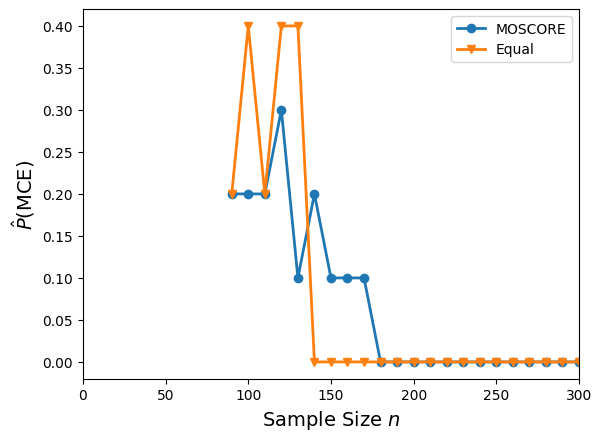
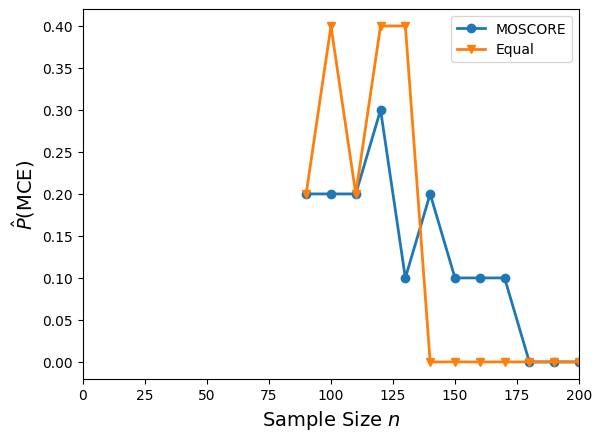
run larger experiments
run larger experiments

diff --git a/base.py b/base.py
@@ -22,7 +22,6 @@ import matplotlib.pyplot as plt
 import pickle
 import time
 
-#import pymoso.chnutils as chnutils
 from mrg32k3a.mrg32k3a import MRG32k3a
 
 from allocate import smart_allocate, calc_phantom_rate, calc_moscore_rate, calc_imoscore_rate
@@ -31,8 +30,8 @@ from utils import is_pareto_efficient, get_nondom   # _mp_objmethod,
 
 class MO_Alloc_Problem(object):
     """Class for multi-objective allocation problems.
-    This refers to the sample means/covariances that dictate what the allocation
-    should be at a given time.
+    Refers to the sample means and sample covariances at a given time,
+    which characterize the problem of allocating simulation effort.
 
     Attributes
     ----------
@@ -57,17 +56,14 @@ class MO_Alloc_Problem(object):
     Parameters
     ----------
     obj_vals : dict
-        Dictionary of tuples of objective values keyed by system number.
-        Tuples of objective values are assumed to be of equal length.
+        Dictionary of numpy arrays of objective values keyed by system number.
+        Arrays of objective values are assumed to be of equal length.
 
     obj_vars : dict
         Dictionary of covariance (numpy 2d arrays) keyed by system number.
         Numbers of rows and columns are equal to the number of objectives.
     """
     def __init__(self, obj_vals, obj_vars):
-        # TODO: Check for positive semidefinite?
-        # Replacing the following line with call to is_pareto_efficient().
-        # pareto_indices = list(moso_utils.get_nondom(obj_vals))
         self.n_systems = len(obj_vals)
         self.obj = obj_vals
         self.var = obj_vars
@@ -495,15 +491,15 @@ def record_metrics(metrics, problem, alpha_hat):
         occured at each step in the solver
 
         ``"percent_false_exclusion"``
-        list of float, the portion of true pareto systems
+        list of float, the porportion of true pareto systems
         which are falsely excluded at each step in the solver
 
         ``"percent_false_inclusion"``
-        list of float, the portion of true non-pareto systems
+        list of float, the proportion of true non-pareto systems
         which are falsely included at each step in the solver
 
         ``"percent_misclassification"``
-        list of float, the portion of systems which are
+        list of float, the proportion of systems which are
         misclassified at each step in the solver
 
     problem : base.MORS_Problem object
@@ -513,42 +509,7 @@ def record_metrics(metrics, problem, alpha_hat):
 
     Returns
     -------
-    metrics : dict
-
-        ``"alpha_hats"``
-        list of lists of float, the simulation allocation selected at each step in the solver
-
-        ``"alpha_bars"``
-        list of lists of float, the portion of the simulation budget that has been allocated
-        to each system at each step in the solver
-
-        ``"paretos"``
-        list of lists of int, the estimated pareto frontier at each step in the solver
-
-        ``"MCI_bool"``
-        list of Bool, indicating whether an misclassification by inclusion
-        occured at each step in the solver
-
-        ``"MCE_bool"``
-        list of Bool, indicating whether an misclassification by exclusion
-        occured at each step in the solver
-
-        ``"MC_bool"``
-        list of Bool, indicating whether an misclassification
-        occured at each step in the solver
-
-        ``"percent_false_exclusion"``
-        list of float, the portion of true pareto systems
-        which are falsely excluded at each step in the solver
-
-        ``"percent_false_inclusion"``
-        list of float, the portion of true non-pareto systems
-        which are falsely included at each step in the solver
-
-        ``"percent_misclassification"``
-        list of float, the portion of systems which are
-        misclassified at each step in the solver
-
+    None
     """
     # Record recommended and empirical allocation proportions.
     metrics['alpha_hats'].append(alpha_hat)
@@ -575,8 +536,6 @@ def record_metrics(metrics, problem, alpha_hat):
         metrics['percent_false_exclusion'].append((problem.n_pareto_systems - n_correct_select) / problem.n_pareto_systems)
         metrics['percent_false_inclusion'].append(n_false_select / (problem.n_systems - problem.n_pareto_systems))
         metrics['percent_misclassification'].append(((problem.n_pareto_systems - n_correct_select) + n_false_select) / problem.n_systems)
-
-    return metrics
 
 
 class MORS_Tester(object):

diff --git a/utils.py b/utils.py
@@ -234,7 +234,7 @@ def does_dominate(g1, g2, delta1, delta2):
             is_dom = False
     return is_dom
 
-def find_phantoms(paretos, n_obj):
+def find_phantoms(paretos, n_objectives):
     """Find the phantom pareto set.
 
     Parameters
@@ -242,7 +242,7 @@ def find_phantoms(paretos, n_obj):
     paretos : numpy matrix
         Matrix representing the pareto set, with a row for each pareto
         system and a column for each objective.
-    n_obj : int
+    n_objectives : int
         Number of objectives.
 
     Returns
@@ -252,8 +252,8 @@ def find_phantoms(paretos, n_obj):
         paretos. Same number of columns but the number of rows vary.
     """
     max_y = np.inf
-    phantoms = np.zeros([1, n_obj])
-    v = range(n_obj)
+    phantoms = np.zeros([1, n_objectives])
+    v = range(n_objectives)
 
     for b in v:
         # Get all subsets of size b of our objective dimensions.
@@ -267,7 +267,7 @@ def find_phantoms(paretos, n_obj):
 
             # Do the sweep.
             phants = sweep(temp_paretos)
-            phan = np.ones([len(phants), n_obj]) * max_y
+            phan = np.ones([len(phants), n_objectives]) * max_y
             phan[:, dims] = phants
             phantoms = np.append(phantoms, phan, axis=0)
     phantoms = phantoms[1:, :]
@@ -282,7 +282,7 @@ def sweep(paretos):
     paretos : numpy matrix
         Matrix representing the pareto set, with a row for each pareto
         system and a column for each objective.
-    n_obj : int
+    n_objectives : int
         Number of objectives.
 
     Returns
@@ -291,15 +291,15 @@ def sweep(paretos):
         Matrix similar in structure to paretos characterizing the phantom
         paretos. Same number of columns but the number of rows vary.
     """
-    n_obj = len(paretos[0, :])
+    n_objectives = len(paretos[0, :])
     num_par = len(paretos)
 
-    if n_obj == 1:
+    if n_objectives == 1:
         return paretos[[paretos[:, 0].argmin()], :]
     else:
-        phantoms = np.zeros([1, n_obj])
-        # Python indexes from 0, so the index for our last dimension is n_obj - 1.
-        d = n_obj - 1
+        phantoms = np.zeros([1, n_objectives])
+        # Python indexes from 0, so the index for our last dimension is n_objectives - 1.
+        d = n_objectives - 1
         # Other dimensions.
         T = range(d)
 
@@ -307,7 +307,7 @@ def sweep(paretos):
         paretos = paretos[(-paretos[:, d]).argsort(), :]
 
         # Sweep dimension d from max to min, projecting into dimensions T
-        for i in range(num_par - (n_obj - 1)):  # Need at least n_obj - 1 paretos to get a phantom.
+        for i in range(num_par - (n_objectives - 1)):  # Need at least n_objectives - 1 paretos to get a phantom.
             max_y = paretos[i, d]
             temp_paretos = paretos[i + 1:num_par, :]  # Paretos following the current max pareto.
             temp_paretos = temp_paretos[:, T]  # Remove dimension d or project onto dimension d.
@@ -319,7 +319,7 @@ def sweep(paretos):
             for j in T:
                 non_dom = phants[:, j] > paretos[i, j]
                 phants = phants[non_dom, :]
-            phan = np.ones([len(phants), n_obj]) * max_y
+            phan = np.ones([len(phants), n_objectives]) * max_y
             phan[:, T] = phants
             phantoms = np.append(phantoms, phan, axis=0)
         # Remove the row we used to initialize phantoms.
@@ -357,7 +357,7 @@ def calc_min_paired_obj_gap(obj_vals, group1, group2):
 
     Parameters
     ----------
-    obj_vals : numpy array of size (n_systems, n_obj).
+    obj_vals : numpy array of size (n_systems, n_objectives).
         Objective function values for all systems.
     group1 : list
         List of indices of systems in first group.

diff --git a/JoS_experiments.py b/JoS_experiments.py
@@ -41,7 +41,7 @@ from base import MO_Alloc_Problem
 n_problems = 10
 
 d = 3  # Number of objectives
-r = 500  # Number of systems
+r = 10000  # Number of systems
 p = 10  # Number of Pareto systems
 
 #rules = ["Brute Force", "Phantom", "MOSCORE", "Brute Force Ind", "iMOSCORE", "Equal"]
@@ -58,16 +58,16 @@ z_ph_list = {rule: [] for rule in rules}
 for problem_idx in range(n_problems):
     print("Generating problem", problem_idx + 1, "of", n_problems)
     # TODO: Revise to use corr/sigma arguments.
-    random_problem = create_fixed_pareto_random_problem(n_systems=r, n_obj=d, n_paretos=p, sigma=1, corr=None, center=100, radius=6, minsep=0.0001)
-    obj_array = np.array([random_problem["obj"][i] for i in range(r)])
+    random_problem = create_fixed_pareto_random_problem(n_systems=r, n_objectives=d, n_paretos=p, sigma=1, corr=None, center=100, radius=6, minsep=0.0001)
+    obj_array = np.array([random_problem.obj[i] for i in range(r)])
     n_paretos = len(is_pareto_efficient(costs=obj_array, return_mask=False))
 
     # Construct Pareto array
     pareto_array = np.zeros([n_paretos, d])
     for i in range(n_paretos):
-        pareto_array[i, :] = random_problem['obj'][random_problem['pareto_indices'][i]]
+        pareto_array[i, :] = random_problem.obj[random_problem.pareto_indices[i]]
 
-    n_phantoms = len(find_phantoms(paretos=pareto_array, n_obj=d))
+    n_phantoms = len(find_phantoms(paretos=pareto_array, n_objectives=d))
     n_paretos_list.append(n_paretos)
     n_phantoms_list.append(n_phantoms)
 

diff --git a/example.py b/example.py
@@ -198,7 +198,7 @@ def create_fixed_pareto_random_problem(n_systems, n_objectives, n_paretos, sigma
     n_systems : int
         number of systems to create
 
-    n_obj : int
+    n_objectives : int
         number of objectives for the problem
 
     n_paretos : int
@@ -221,21 +221,8 @@ def create_fixed_pareto_random_problem(n_systems, n_objectives, n_paretos, sigma
 
     Returns
     -------
-    problem : dict
-        ``"obj"``
-        A dictionary of numpy arrays, indexed by system number,each of which corresponds to the objective values of a system.
-
-        ``"var"``
-        A dictionary of 2d numpy arrays, indexed by system number,each of which corresponds to the covariance matrix of a system.
-
-        ``"inv_var"``
-        A dictionary of 2d numpy, indexed by system number,each of which corresponds to the inverse covariance matrix of a system.
-
-        ``"pareto_indices"``
-        A list of pareto systems ordered by the first objective.
-
-        ``"non_pareto_indices"``
-        A list of non-pareto systems ordered by the first objective.
+    problem : base.MO_Alloc_Problem
+        problem instance
     """
     # Generate pareto systems.
     paretos = {}

diff --git a/working.py b/working.py
@@ -25,7 +25,7 @@ objs = myproblem.bump(system_indices = system_indices)
 
 myproblem.update_statistics(system_indices = system_indices, objs=objs)
 
-mysolver = MORS_Solver(budget=300,
+mysolver = MORS_Solver(budget=200,
                        n0=5,
                        delta=10,
                        allocation_rule="MOSCORE",
@@ -36,7 +36,7 @@ mysolver = MORS_Solver(budget=300,
 mytester = MORS_Tester(solver=mysolver, problem=myproblem)
 mytester.run(n_macroreps=10)
 
-mysolver2 = MORS_Solver(budget=300,
+mysolver2 = MORS_Solver(budget=200,
                        n0=5,
                        delta=10,
                        allocation_rule="Equal",
